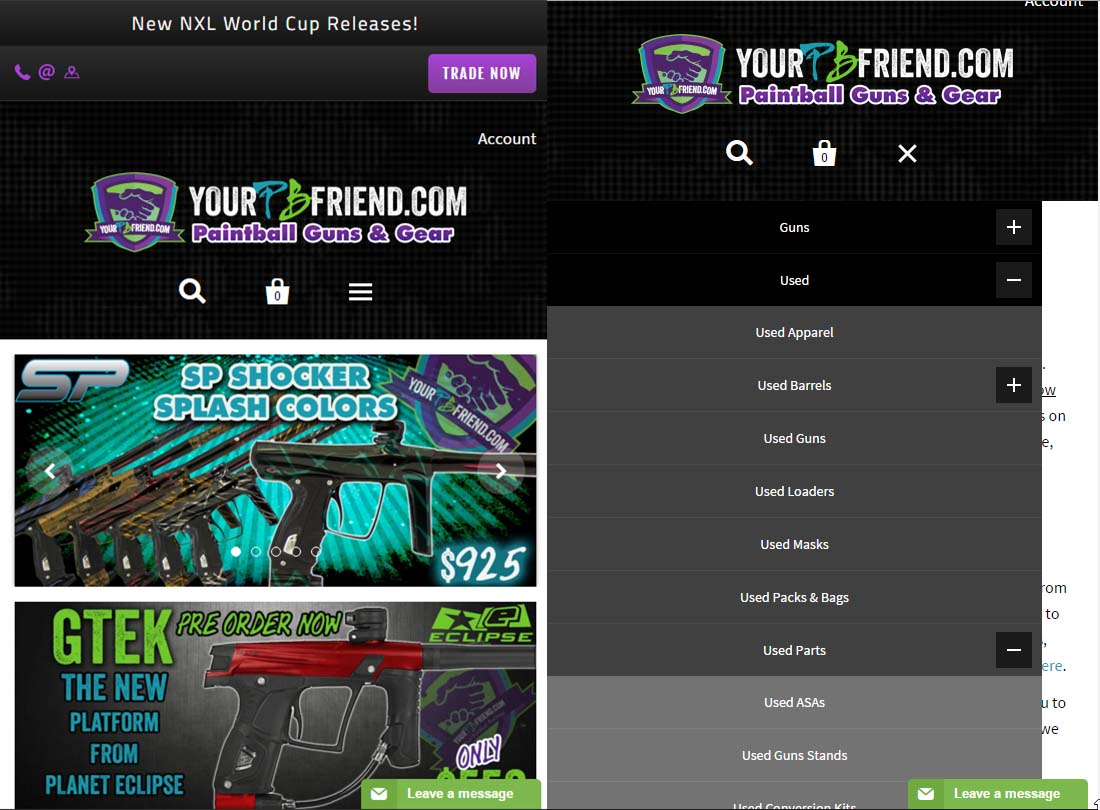
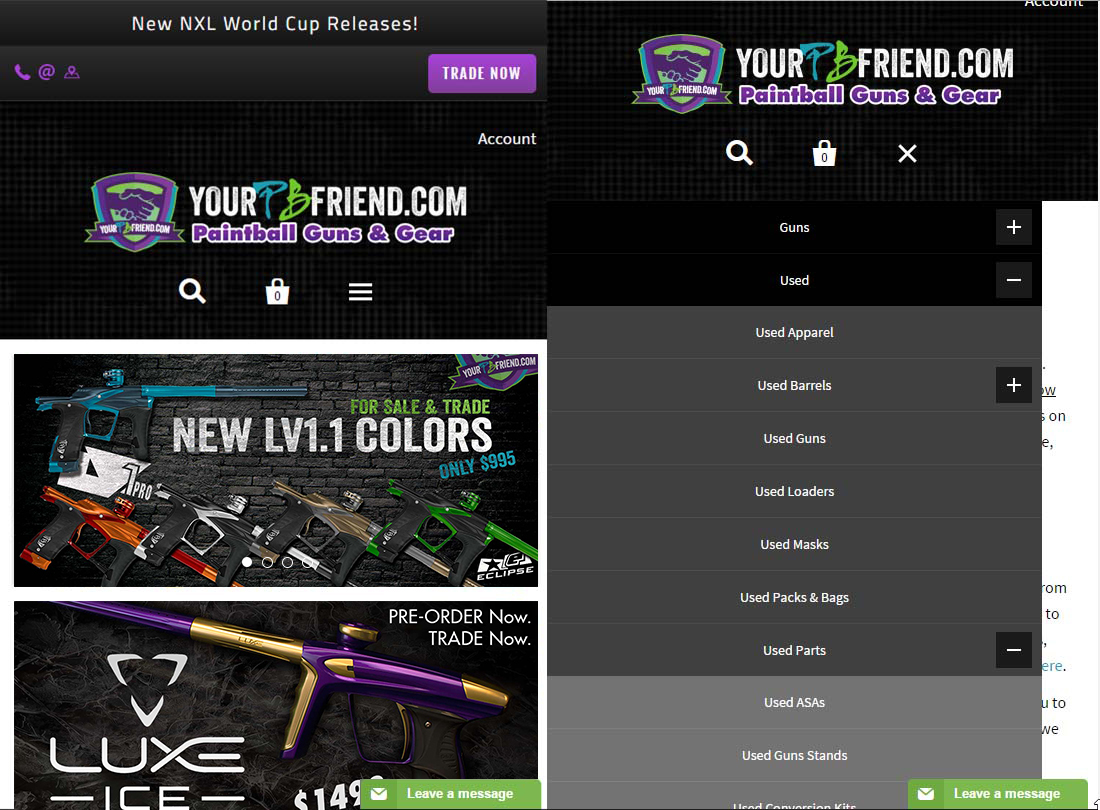
Improve YourPbFriend images

Changed region(s): [[0.0, 0.4321, 0.4945, 1.0]]

diff --git a/data/work/yourpbfriend.md b/data/work/yourpbfriend.md
@@ -2,16 +2,7 @@
 title: YourPbFriend
 date: 2014-2016
 images:
-  - yourpbfriend-ss1-frontpage.png
-  - yourpbfriend-ss2-usedguns.png
-  - yourpbfriend-ss3-footer.png
-  - yourpbfriend-ss4-about.png
-  - yourpbfriend-ss5-tradeinform.png
-  - yourpbfriend-ss6-newguns.png
-  - yourpbfriend-ss7-product.png
-  - yourpbfriend-ss8-social.png
-  - yourpbfriend-ss9-responsive.png
-  - yourpbfriend-ss10-responsivemenu.png
+  - yourpbfriend-ss1-frontpage2.jpg
 role: "Web Developer, Digital Marketer"
 results:
   - "Developed the #1 most-used Paintball trade-in web app of 2015-2016"
@@ -123,6 +114,8 @@ YourPbFriend digital marketing campaigns primarily utilized website banners, ema
 [![YourPbFriend ad samples image](/img/work/yourpbfriend-ss17-ad-samples.jpg)](/img/work/yourpbfriend-ss17-ad-samples.jpg)
 
 The ads either served products that customers had viewed or promoted the trade program and seasonal deals. I placed them on [PbNation](https://pbnation.com), the Google Display Network, and the Facebook (Meta) Ads Network, and I optimized the ad results with A/B testing. However, the latter two ad networks eventually restricted Paintball and Airsoft advertisements. Because of this, we attempted to only market gear (without guns) as a way around the Google and Facebook restrictions, but ultimately failed.
+
+[![YourPbFriend banner samples image](/img/work/yourpbfriend-ss20-banner-samples2.jpg)](/img/work/yourpbfriend-ss20-banner-samples2.jpg)
 
 [![YourPbFriend banner samples image](/img/work/yourpbfriend-ss18-banner-samples.jpg)](/img/work/yourpbfriend-ss18-banner-samples.jpg)
 
